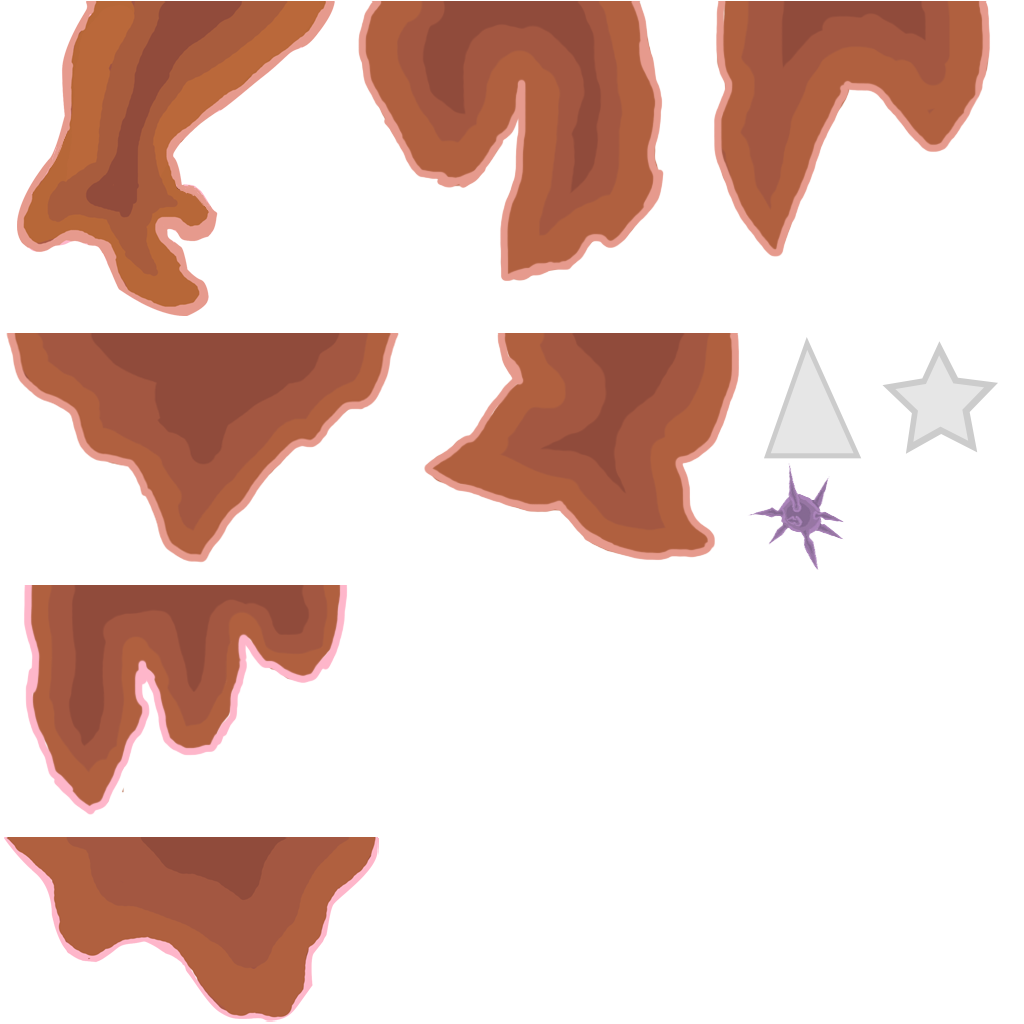
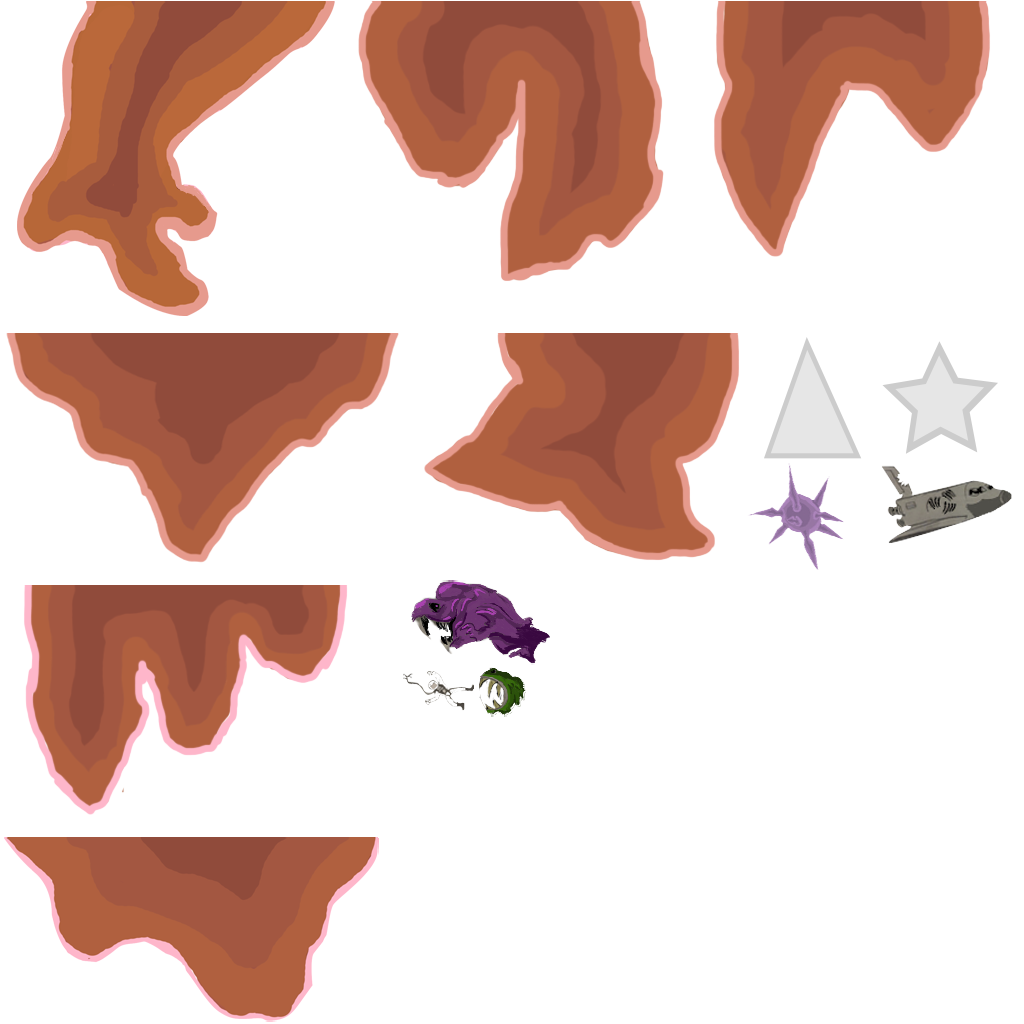
added enemy with fixturedef

Changed region(s): [[0.4062, 0.5625, 0.5312, 0.7188], [0.875, 0.4688, 1.0, 0.5312], [0.8438, 0.4375, 0.875, 0.4688]]

diff --git a/medusa-core/src/main/java/uy/globalgamejam/medusa/templates/enemies/SimpleEnemyTemplate.java b/medusa-core/src/main/java/uy/globalgamejam/medusa/templates/enemies/SimpleEnemyTemplate.java
@@ -1,0 +1,133 @@
+package uy.globalgamejam.medusa.templates.enemies;
+
+import java.util.ArrayList;
+
+import uy.globalgamejam.medusa.Collisions;
+import uy.globalgamejam.medusa.components.ItemComponent;
+import uy.globalgamejam.medusa.resources.GameResources;
+import uy.globalgamejam.medusa.tags.Groups;
+
+import aurelienribon.box2deditor.FixtureAtlas;
+
+import com.artemis.Entity;
+import com.badlogic.gdx.graphics.Color;
+import com.badlogic.gdx.graphics.g2d.Sprite;
+import com.badlogic.gdx.math.Vector2;
+import com.badlogic.gdx.physics.box2d.Body;
+import com.badlogic.gdx.physics.box2d.Fixture;
+import com.badlogic.gdx.physics.box2d.FixtureDef;
+import com.badlogic.gdx.physics.box2d.BodyDef.BodyType;
+import com.gemserk.commons.artemis.components.GroupComponent;
+import com.gemserk.commons.artemis.components.PhysicsComponent;
+import com.gemserk.commons.artemis.components.RenderableComponent;
+import com.gemserk.commons.artemis.components.SpatialComponent;
+import com.gemserk.commons.artemis.components.SpriteComponent;
+import com.gemserk.commons.artemis.templates.EntityTemplateImpl;
+import com.gemserk.commons.gdx.box2d.BodyBuilder;
+import com.gemserk.commons.gdx.games.Spatial;
+import com.gemserk.commons.gdx.games.SpatialPhysicsImpl;
+import com.gemserk.commons.gdx.graphics.ShapeUtils;
+import com.gemserk.commons.reflection.Injector;
+import com.gemserk.resources.ResourceManager;
+
+public class SimpleEnemyTemplate extends EntityTemplateImpl {
+
+	BodyBuilder bodyBuilder;
+	Injector injector;
+	ResourceManager<String> resourceManager;
+
+	public void setResourceManager(ResourceManager<String> resourceManager) {
+		this.resourceManager = resourceManager;
+	}
+
+	public void setInjector(Injector injector) {
+		this.injector = injector;
+	}
+
+	public void setBodyBuilder(BodyBuilder bodyBuilder) {
+		this.bodyBuilder = bodyBuilder;
+	}
+
+	@Override
+	public void apply(Entity entity) {
+		Spatial spatial = parameters.get("spatial");
+		Sprite sprite = parameters.get("sprite");
+		sprite.getWidth();
+		
+		
+		Body body = bodyBuilder //
+				.position(0f, 0f) //
+				.type(BodyType.DynamicBody) //
+				.angle(0f) //
+				.userData(entity) //
+				.build();
+
+		FixtureAtlas obstaclesFixtureAtlas = resourceManager.getResourceValue(GameResources.FixtureAtlas.Obstacles);
+
+		float width = spatial.getWidth();
+		float height = spatial.getHeight();
+
+		FixtureDef obstacleFixtureDef = bodyBuilder.fixtureDefBuilder() //
+				.categoryBits(Collisions.Enemy) //
+				.maskBits((short) (Collisions.Obstacle | Collisions.Enemy)) //
+				.restitution(0.5f) //
+				.build();
+
+		String fixtureId = parameters.get("fixtureId");
+
+		obstaclesFixtureAtlas.createFixtures(body, fixtureId, width, height, obstacleFixtureDef);
+
+		ArrayList<Fixture> fixtureList = body.getFixtureList();
+
+		Float alignX = parameters.get("alignX",0.5f);
+		Float alignY = parameters.get("alignY",0.5f);
+		
+		
+		obstacleFixtureDef = bodyBuilder.fixtureDefBuilder() //
+				.categoryBits(Collisions.Enemy) //
+				.sensor()
+				.maskBits((short) (Collisions.MainCharacter | Collisions.Tail)) //
+				.build();
+
+
+		obstaclesFixtureAtlas.createFixtures(body, fixtureId, width, height, obstacleFixtureDef);
+
+		fixtureList = body.getFixtureList();
+		
+		ShapeUtils.translateFixtures(fixtureList, -width * alignX, -height * alignY);
+		
+		
+//		Body body = bodyBuilder //
+//				.fixture(bodyBuilder.fixtureDefBuilder() //
+//						.categoryBits(Collisions.Enemy) //
+//						.maskBits((short) (Collisions.Obstacle)) //
+//						.circleShape(spatial.getWidth()/2) //
+//				) //
+//				.fixture(bodyBuilder.fixtureDefBuilder() //
+//						.categoryBits(Collisions.Enemy) //
+//						.sensor()
+//						.maskBits((short) (Collisions.MainCharacter | Collisions.Tail)) //
+//						.circleShape(0.25f) //
+//				) //
+//				.position(0f, 0f) //
+//				.type(BodyType.DynamicBody) //
+//				.angle(0f) //
+//				.userData(entity) //
+//				.build();
+//
+//		body.setTransform(spatial.getX(), spatial.getY(), spatial.getAngle());
+
+		body.setLinearVelocity(parameters.get("initialVelocity",new Vector2()));
+		entity.addComponent(new PhysicsComponent(body));
+		entity.addComponent(new ItemComponent());
+
+		entity.addComponent(new GroupComponent(Groups.Enemies));
+		
+		entity.addComponent(new SpatialComponent(new SpatialPhysicsImpl(body, spatial)));
+
+		entity.addComponent(new SpriteComponent(sprite, 0.5f, 0.5f, Color.WHITE));
+		entity.addComponent(new RenderableComponent(-1, true));
+
+	}
+
+}

diff --git a/medusa-core/src/main/java/uy/globalgamejam/medusa/LevelGeneratorTemplate.java b/medusa-core/src/main/java/uy/globalgamejam/medusa/LevelGeneratorTemplate.java
@@ -3,15 +3,18 @@ package uy.globalgamejam.medusa;
 import java.util.Comparator;
 
 import uy.globalgamejam.medusa.resources.GameResources;
+import uy.globalgamejam.medusa.resources.GameResources.Sprites;
 import uy.globalgamejam.medusa.templates.ItemTemplate;
 import uy.globalgamejam.medusa.templates.ObstacleTemplate;
-import uy.globalgamejam.medusa.templates.enemies.FixedEnemyTemplate;
+import uy.globalgamejam.medusa.templates.enemies.SimpleEnemyTemplate;
 
 import com.badlogic.gdx.graphics.g2d.Sprite;
 import com.badlogic.gdx.math.MathUtils;
+import com.badlogic.gdx.math.Vector2;
 import com.badlogic.gdx.utils.Array;
 import com.gemserk.commons.artemis.templates.EntityTemplate;
 import com.gemserk.commons.gdx.games.SpatialImpl;
+import com.gemserk.commons.gdx.math.MathUtils2;
 import com.gemserk.commons.reflection.Injector;
 import com.gemserk.componentsengine.utils.Parameters;
 import com.gemserk.componentsengine.utils.ParametersWrapper;
@@ -88,14 +91,39 @@ public class LevelGeneratorTemplate {
 			lastX += MathUtils.random(10, 20);
 			Element element = new Element();
 			element.xCoord = lastX - GENERATION_BETWEEN_ELEMENTS;
-			element.entityTemplate = FixedEnemyTemplate.class;
+			
+			element.entityTemplate = SimpleEnemyTemplate.class;
 
+			Sprite sprite = resourceManager.getResourceValue(Sprites.Enemy1);
+			float enemyScale = 1f;
+			float width = sprite.getWidth() / (worldScale*enemyScale);
+			float height = sprite.getHeight() / (worldScale*enemyScale);
+			
 			element.parameters = new ParametersWrapper() //
-					.put("spatial", new SpatialImpl(lastX, 5, 1, 1, 0)); //
+					.put("spatial", new SpatialImpl(lastX, MathUtils.random(-maxYCoord, maxYCoord), width, height, 0))//
+					.put("initialVelocity", new Vector2(1, 0).rotate(MathUtils.random(360)).mul(MathUtils.random(1f)))//
+					.put("sprite", sprite)//
+					.put("fixtureId", "enemigo1a.png") //
+
+			; //
 
 			elements.add(element);
 			System.out.println("Element(fixed enemy) Created at " + element.xCoord);
 		}
+
+//		lastX = 0;
+//		while (lastX < distance) {
+//			lastX += MathUtils.random(10, 20);
+//			Element element = new Element();
+//			element.xCoord = lastX - GENERATION_BETWEEN_ELEMENTS;
+//			element.entityTemplate = SimpleEnemyTemplate.class;
+//
+//			element.parameters = new ParametersWrapper() //
+//					.put("spatial", new SpatialImpl(lastX, 5, 1, 1, 0)); //
+//
+//			elements.add(element);
+//			System.out.println("Element(fixed enemy) Created at " + element.xCoord);
+//		}
 
 		elements.sort(new Comparator<LevelGeneratorTemplate.Element>() {
 

diff --git a/medusa-core/src/main/java/uy/globalgamejam/medusa/resources/GameResources.java b/medusa-core/src/main/java/uy/globalgamejam/medusa/resources/GameResources.java
@@ -23,6 +23,8 @@ public class GameResources extends LibgdxResourceBuilder {
 		public static final String Obstacle1 = "Obstacle1Sprite";
 		public static final String Muro1 = "Muro1";
 		public static final String Muro2 = "Muro2";
+		public static final String Enemy1 = "Enemigo1";
+		public static final String Enemigo2 = "Enemigo2";
 	}
 
 	public static class FixtureAtlas {
@@ -70,6 +72,12 @@ public class GameResources extends LibgdxResourceBuilder {
 					.textureAtlas(TextureAtlases.Images, "muro" + i + "a").flip(true, false));
 		}
 		
+		
+		resource(Sprites.Enemy1, sprite2() //
+				.textureAtlas(TextureAtlases.Images, "enemigo1a"));
+		
+		resource(Sprites.Enemigo2, sprite2() //
+				.textureAtlas(TextureAtlases.Images, "enemigo2a"));
 		
 //		resource(Sprites.Muro1, sprite2() //
 //				.textureAtlas(TextureAtlases.Images, "muro1"));
